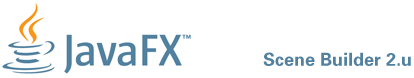
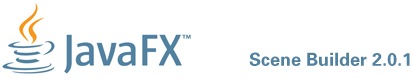
[SCENEBUILDER] Update version

Changed region(s): [[0.5797, 0.6667, 1.0, 0.8462]]

diff --git a/apps/scenebuilder/SceneBuilderApp/src/com/oracle/javafx/scenebuilder/app/about/AboutWindowController.java b/apps/scenebuilder/SceneBuilderApp/src/com/oracle/javafx/scenebuilder/app/about/AboutWindowController.java
@@ -63,7 +63,7 @@ public final class AboutWindowController extends AbstractFxmlWindowController {
     // The resource bundle contains two keys: about.copyright and about.copyright.open
     private String sbAboutCopyrightKeyName = "about.copyright.open"; //NOI18N
     // File name must be in sync with what we use in logging.properties
-    private final String LOG_FILE_NAME = "scenebuilder-2.u.log"; //NOI18N
+    private final String LOG_FILE_NAME = "scenebuilder-2.0.1.log"; //NOI18N
 
     public AboutWindowController() {
         super(AboutWindowController.class.getResource("About.fxml"), //NOI18N
@@ -147,7 +147,7 @@ public final class AboutWindowController extends AbstractFxmlWindowController {
     
     private StringBuilder getVersionParagraph() {
         StringBuilder sb = new StringBuilder(I18N.getString("about.product.version"));
-        sb.append("\nJavaFX Scene Builder 2.u\n\n"); //NOI18N
+        sb.append("\nJavaFX Scene Builder 2.0.1\n\n"); //NOI18N
         return sb;
     }
     private String getLogFilePath() {
